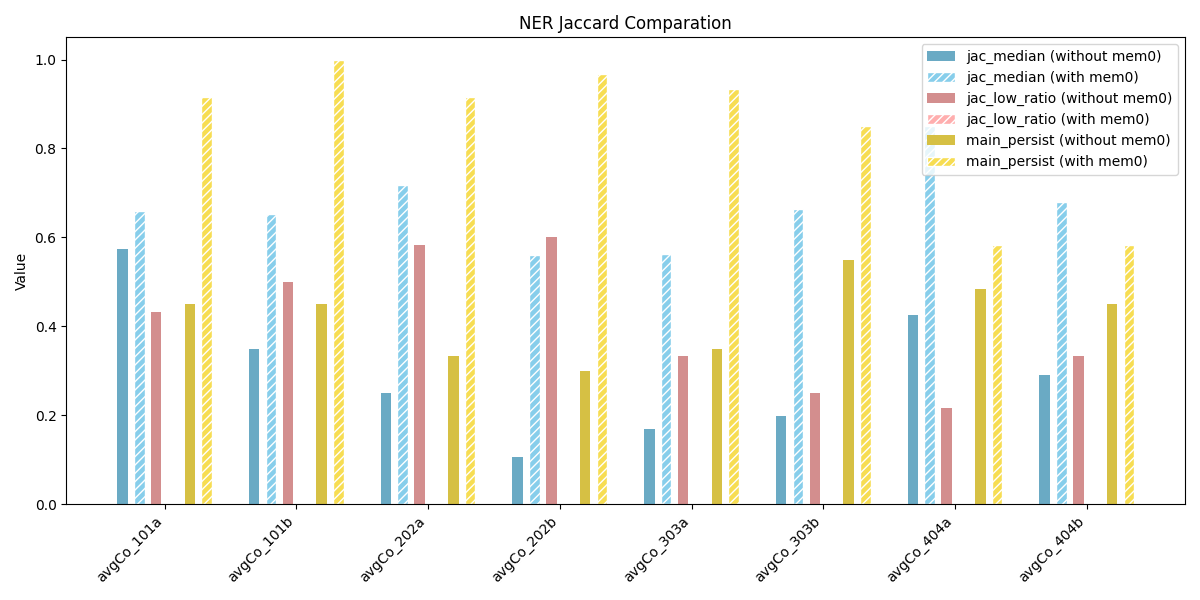
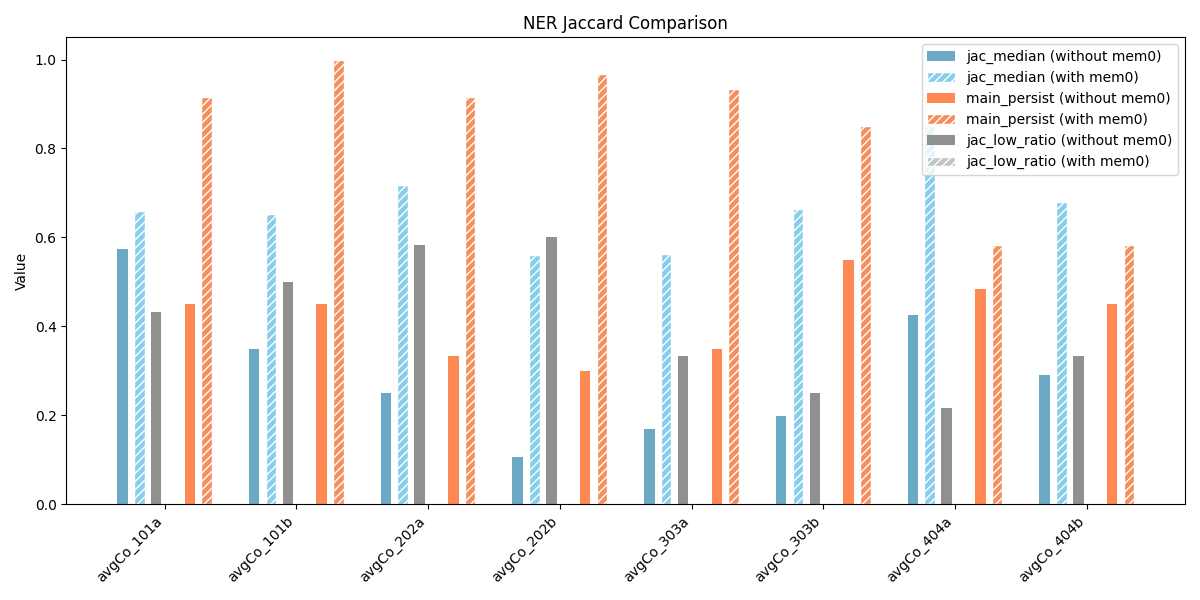
update: ner pic

diff --git a/out_co/drawing.py b/out_co/drawing.py
@@ -48,21 +48,21 @@ for group in group_names:
             
             # perplexity_without.append(data['Perplexity']['ppl3_add1']['value'])
 
-            # jac_median_without.append(data['NER(Jaccard)']['jac_median']['value'])
-            # jac_low_ratio_without.append(data['NER(Jaccard)']['jac_low_ratio']['value'])
-            # main_persist_without.append(data['NER(Jaccard)']['main_persist']['value'])
+            jac_median_without.append(data['NER(Jaccard)']['jac_median']['value'])
+            main_persist_without.append(data['NER(Jaccard)']['main_persist']['value'])
+            jac_low_ratio_without.append(data['NER(Jaccard)']['jac_low_ratio']['value'])
 
-            coherence_without.append(data['Thematic coherence']['global_coherence']['value'])
+            # coherence_without.append(data['Thematic coherence']['global_coherence']['value'])
     else:
         # nli_without.append(np.nan)
 
-        perplexity_without.append(np.nan)
+        # perplexity_without.append(np.nan)
 
-        # jac_median_without.append(np.nan)
-        # jac_low_ratio_without.append(np.nan)
-        # main_persist_without.append(np.nan)
+        jac_median_without.append(np.nan)
+        main_persist_without.append(np.nan)
+        jac_low_ratio_without.append(np.nan)
 
-        coherence_without.append(np.nan)
+        # coherence_without.append(np.nan)
 
     f = groups[group].get('with')
     if f:
@@ -72,36 +72,37 @@ for group in group_names:
 
             # perplexity_with.append(data['Perplexity']['ppl3_add1']['value'])
 
-            # jac_median_with.append(data['NER(Jaccard)']['jac_median']['value'])
-            # jac_low_ratio_with.append(data['NER(Jaccard)']['jac_low_ratio']['value'])
-            # main_persist_with.append(data['NER(Jaccard)']['main_persist']['value'])
+            jac_median_with.append(data['NER(Jaccard)']['jac_median']['value'])
+            main_persist_with.append(data['NER(Jaccard)']['main_persist']['value'])
+            jac_low_ratio_with.append(data['NER(Jaccard)']['jac_low_ratio']['value'])
 
-            coherence_with.append(data['Thematic coherence']['global_coherence']['value'])
+            # coherence_with.append(data['Thematic coherence']['global_coherence']['value'])
     else:
         # nli_with.append(np.nan)
 
         # perplexity_with.append(np.nan)
 
-        # jac_median_with.append(np.nan)
-        # jac_low_ratio_with.append(np.nan)
-        # main_persist_with.append(np.nan)
+        jac_median_with.append(np.nan)
+        main_persist_with.append(np.nan)
+        jac_low_ratio_with.append(np.nan)
 
-        coherence_with.append(np.nan)
+        # coherence_with.append(np.nan)
 
 x = np.arange(len(group_names))
-bar_width = 0.25
+bar_width = 0.08
 
 plt.figure(figsize=(12, 6))
 # plt.bar(x - (bar_width/2+ 0.05), nli_without, bar_width, label='without mem0', color='#6aaac4')
 # plt.bar(x + (bar_width/2+ 0.05), nli_with, bar_width, label='with mem0', color='#87ceeb', hatch='///', edgecolor='white')
 
-# offsets = np.linspace(-bar_width*4, bar_width*4, 6)
-# plt.bar(x + offsets[0], jac_median_without, bar_width, label='jac_median (without mem0)', color='#6aaac4')
-# plt.bar(x + offsets[1], jac_median_with, bar_width, label='jac_median (with mem0)', color='#87ceeb', hatch='////', edgecolor='white')
-# plt.bar(x + offsets[2], jac_low_ratio_without, bar_width, label='jac_low_ratio (without mem0)', color="#d38e8e")
-# plt.bar(x + offsets[3], jac_low_ratio_with, bar_width, label='jac_low_ratio (with mem0)', color="#ffaeae", hatch='////', edgecolor='white')
-# plt.bar(x + offsets[4], main_persist_without, bar_width, label='main_persist (without mem0)', color="#d6c044")
-# plt.bar(x + offsets[5], main_persist_with, bar_width, label='main_persist (with mem0)', color='#f7dd52', hatch='////', edgecolor='white')
+offsets = np.linspace(-bar_width*4, bar_width*4, 6)
+plt.bar(x + offsets[0], jac_median_without, bar_width, label='jac_median (without mem0)', color='#6aaac4')
+plt.bar(x + offsets[1], jac_median_with, bar_width, label='jac_median (with mem0)', color='#87ceeb', hatch='////', edgecolor='white')
+plt.bar(x + offsets[4], main_persist_without, bar_width, label='main_persist (without mem0)', color="#FF8952")
+plt.bar(x + offsets[5], main_persist_with, bar_width, label='main_persist (with mem0)', color="#F58D5C", hatch='////', edgecolor='white')
+plt.bar(x + offsets[2], jac_low_ratio_without, bar_width, label='jac_low_ratio (without mem0)', color="#919090")
+plt.bar(x + offsets[3], jac_low_ratio_with, bar_width, label='jac_low_ratio (with mem0)', color="#C2C2C2", hatch='////', edgecolor='white')
+
 
 
 # plt.bar(x - (bar_width/2+ 0.05), perplexity_without, bar_width, label='without mem0', color='#6aaac4')
@@ -109,18 +110,18 @@ plt.figure(figsize=(12, 6))
 # plt.ylim(300, 360)
 # plt.yticks(np.arange(300, 361, 10))
 
-plt.bar(x - (bar_width/2+ 0.05), coherence_without, bar_width, label='without mem0', color='#6aaac4')
-plt.bar(x + (bar_width/2+ 0.05), coherence_with, bar_width, label='with mem0', color='#87ceeb', hatch='///', edgecolor='white')
-plt.ylim(0.9, 1.0)
-plt.yticks(np.arange(0.9, 1.01, 0.02))
+# plt.bar(x - (bar_width/2+ 0.05), coherence_without, bar_width, label='without mem0', color='#6aaac4')
+# plt.bar(x + (bar_width/2+ 0.05), coherence_with, bar_width, label='with mem0', color='#87ceeb', hatch='///', edgecolor='white')
+# plt.ylim(0.9, 1.0)
+# plt.yticks(np.arange(0.9, 1.01, 0.02))
 
 
 plt.xticks(x, group_names, rotation=45, ha='right')
 plt.ylabel('Value')
 # plt.title('NLI Contradiction Rate (↓ is better)')
-# plt.title('NER Jaccard Comparation')
+plt.title('NER Jaccard Comparison')
 # plt.title('Perplexity Comparison (↓ is better)')
-plt.title('Thematic Coherence Comparison (↑ is better)')
+# plt.title('Thematic Coherence Comparison (↑ is better)')
 plt.legend()
 plt.tight_layout()
-plt.savefig('out_pic/coherence.png')
+plt.savefig('out_pic/ner.png')
